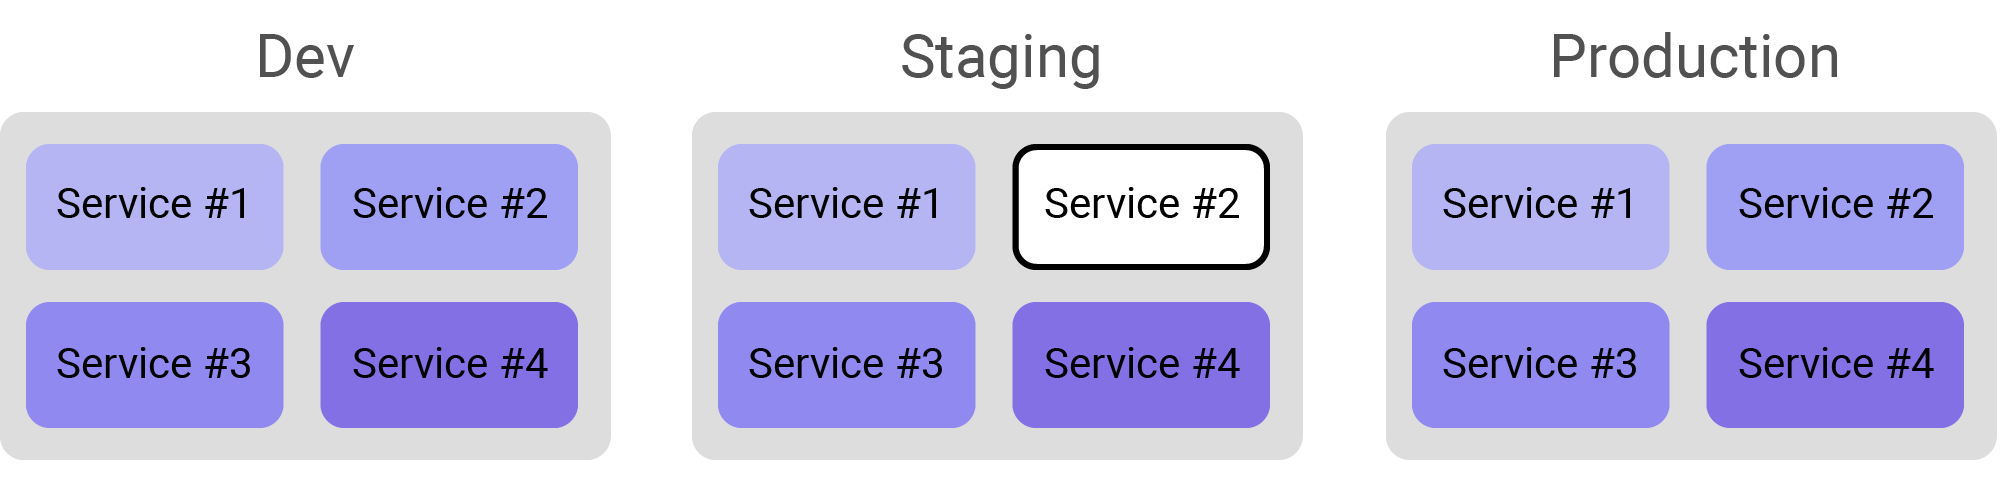
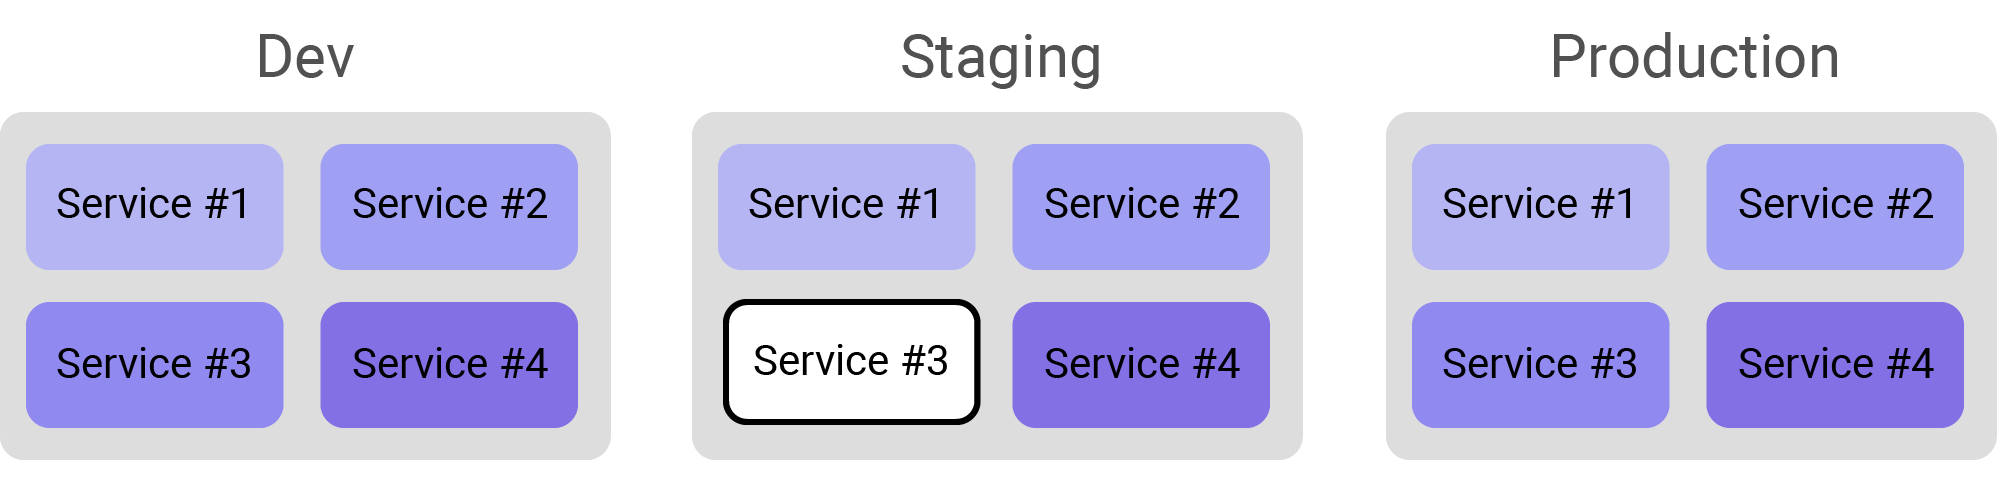
Fixed CR comments

Changed region(s): [[0.496, 0.2755, 0.651, 0.551], [0.341, 0.6122, 0.496, 0.8878]]

diff --git a/docs/projects-labels.md b/docs/projects-labels.md
@@ -4,23 +4,23 @@ title: Labels
 sidebar_label: Labels
 ---
 
-Let's assume that you have three environments in your organization - Dev, Staging, and Production. On each environment, you have four different services - service #1, #2, #3 and #4.
+Labels are key/value pairs that are attached to running application instances.
 
-Labels are becoming useful when you want to collect data from a specific service, in a specific environment - you can easily choose what instances you want to work with and collect data from.
- 
+Labels can be used to organize and select groups of application instances.
+In this example organization, there are three environments - development, staging, and production with 4 different services in each environment.
 
 <img src="/img/screenshots/tag_n1.png" />  
 
 ### Setting up your Rookout deployment
 
 When installing the Rookout SDK, you may provide the service name and environment nam as labels.  
-For example, Service #3 in Production may be configured using the following:
+For example, service #3 in Production may be configured using the following:
 
 <!--DOCUSAURUS_CODE_TABS-->
 <!--Python-->
 ```python
 rook.start(token='[Your Rookout Token]',
-           labels={"ServiceName":"Service#3","Enviroment":"Production"})
+           labels={"service":"service#3","env":"production"})
 ```
 <!--Node-->
 ```javascript
@@ -28,8 +28,8 @@ rook.start({
     token: '[Your Rookout Token]', 
     labels:
         {
-            "ServiceName":"Service#3",
-            "Enviroment":"Production"
+            "service":"service#3",
+            "env":"production"
         }
     
 });
@@ -37,7 +37,7 @@ rook.start({
 <!--JVM-->
 ```bash
 # Export your labels as an environment variable
-export ROOKOUT_LABELS=ServiceName:ServiceA,Enviroment:Production
+export ROOKOUT_LABELS=service:service3,env:production
 
 ```
 <!--END_DOCUSAURUS_CODE_TABS-->
@@ -46,11 +46,11 @@ export ROOKOUT_LABELS=ServiceName:ServiceA,Enviroment:Production
 ## Examples
 ### Debug all instances of specific service
 
-When creating your Rookout Project, use the following filter to debug all instances of Service #3 (in Production, Staging and Dev).
+When creating your Rookout Project, use the following filter to debug all instances of service #3 (in Production, Staging and Dev).
 
-1. Add the following filter: `ServiceName:Service#3` 
+1. Add the following filter: `service:service#3` 
 
-2. Import the source code for Service #3.
+2. Import the source code for service #3.
 
 <img src="/img/screenshots/tag_n2.png" />
 
@@ -58,7 +58,7 @@ When creating your Rookout Project, use the following filter to debug all instan
 
 When creating your Rookout Project, use the following filter to debug only instances running in Production.
 
-1. Add the following filter: `Enviroment:Production` 
+1. Add the following filter: `env:production` 
 
 2. Import the source code of the relevant service.
 
@@ -66,11 +66,11 @@ When creating your Rookout Project, use the following filter to debug only insta
 
 ### Debug specific instance in specific enviroment
 
-To refine the filter, you may use the following filter to debug only the instance of Service #2 runing in Staging.
+To refine the filter, you may use the following filter to debug only the instance of service #3 running in Staging.
 
-1. Add the following filters: `Enviroment:Staging` `ServiceName:Service#2`
+1. Add the following filters: `env:staging` `service:service#3`
 
-2. Import the source code for Service #2.
+2. Import the source code for service #3.
 
 <img src="/img/screenshots/tag_n4.png" />
 
@@ -84,7 +84,6 @@ You may find those labels in the Rookout App Instances page, or in the Project c
 | Filter by &nbsp;&nbsp;&nbsp;&nbsp;&nbsp;&nbsp;&nbsp;&nbsp;&nbsp;&nbsp;&nbsp;&nbsp;&nbsp;&nbsp;&nbsp;&nbsp;&nbsp;&nbsp;&nbsp;&nbsp;&nbsp;&nbsp;&nbsp;&nbsp;&nbsp; | Example 
 | ------------ | ----------------------- | 
 | `hostname` | `$hostname:demo-deployment` |
-| `ip` | `$ip:25.218.30.111`  | 
 | `platform` | `$platform:python`, `$platform:java` `$platform:node`| 
 | `processname` | `$processname:demo/app.py`| 
 | `internal ip` | `$internalIp:10.14.1.101`| 

diff --git a/docs/sdk-setup.md b/docs/sdk-setup.md
@@ -38,7 +38,7 @@ import rook
 
 if __name__ == "__main__":
     rook.start(token='[Your Rookout Token]',
-               labels={"Enviroment":"Dev"}) # Optional,see Labels page below Projects
+               labels={"env":"dev"}) # Optional,see Labels page below Projects
     # Your program starts here :)
 ```
 <div class="rookout-org-info"></div>
@@ -84,7 +84,6 @@ The `start` method is used to initialize the SDK in the background and accepts t
 | ------------ | ----------------------- | ------------- | ----------- |
 | `token` | `ROOKOUT_TOKEN` | None | The Rookout token for your organization. Should be left empty if you are using a Rookout ETL Controller |
 | `labels` | `ROOKOUT_LABELS` | {} | A dictionary of key:value labels for your application instances. Use `k:v,k:v` format for environment variables |
-| `tags` | `ROOKOUT_ROOK_TAGS` | [] | The list of tags you want for your application instances. Use *;* as a separator for environment variables |
 | `host` | `ROOKOUT_CONTROLLER_HOST` | None | If you are using a Rookout ETL Controller, this is the hostname for it |
 | `port` | `ROOKOUT_CONTROLLER_PORT` | None | If you are using a Rookout ETL Controller, this is the port for it |
 | `debug` | `ROOKOUT_DEBUG` | False | Set to `True` to increase log level to debug |
@@ -289,7 +288,7 @@ rookout.start({
     token: '[Your Rookout Token]',
     labels:
         {
-            "Enviroment":"Dev" // Optional,see Labels page below Projects
+            "env":"dev" // Optional,see Labels page below Projects
         }
 });
 ```
@@ -317,7 +316,6 @@ The `start` method is used to initialize the SDK. Receives configuration using a
 | ------------ | ----------------------- | ------------- | ----------- |
 | `token` | `ROOKOUT_TOKEN` | None | The Rookout token for your organization. Should be left empty if you are using a Rookout ETL Controller |
 | `labels` | `ROOKOUT_LABELS` | {} | A dictionary of key:value labels for your application instances. Use `k:v,k:v` format for environment variables |
-| `tags` | `ROOKOUT_ROOK_TAGS` | [] | The list of tags you want for your application instances. Use *;* as a separator for environment variables |
 | `host` | `ROOKOUT_CONTROLLER_HOST` | None | If you are using a Rookout ETL Controller, this is the hostname for it |
 | `port` | `ROOKOUT_CONTROLLER_PORT` | None | If you are using a Rookout ETL Controller, this is the port for it |
 | `debug` | `ROOKOUT_DEBUG` | False | Set to `True` to increase log level to debug |
@@ -450,7 +448,7 @@ Simply add the Rookout SDK as a Java Agent to your environment:
 export ROOKOUT_TOKEN=[Your Rookout Token]
 
 # Optional, see Labels section below Projects
-export ROOKOUT_LABELS=Enviroment:Dev
+export ROOKOUT_LABELS=env:dev
 
 # Add the Java Agent to your application using an environment variable
 export JAVA_TOOL_OPTIONS="-javaagent:(pwd)/rook.jar"
@@ -459,7 +457,7 @@ export JAVA_TOOL_OPTIONS="-javaagent:(pwd)/rook.jar"
 <!--Command Line-->
 ```bash
 # Add the Java Agent, token and the labels to your application using command line
-java -javaagent:(pwd)/rook.jar MyClass -DROOKOUT_TOKEN=[Your Rookout Token] -DROOKOUT_LABELS=Enviroment:Dev
+java -javaagent:(pwd)/rook.jar MyClass -DROOKOUT_TOKEN=[Your Rookout Token] -DROOKOUT_LABELS=env:dev
 ```
 <!--END_DOCUSAURUS_CODE_TABS-->
 <div class="rookout-org-info"></div>
